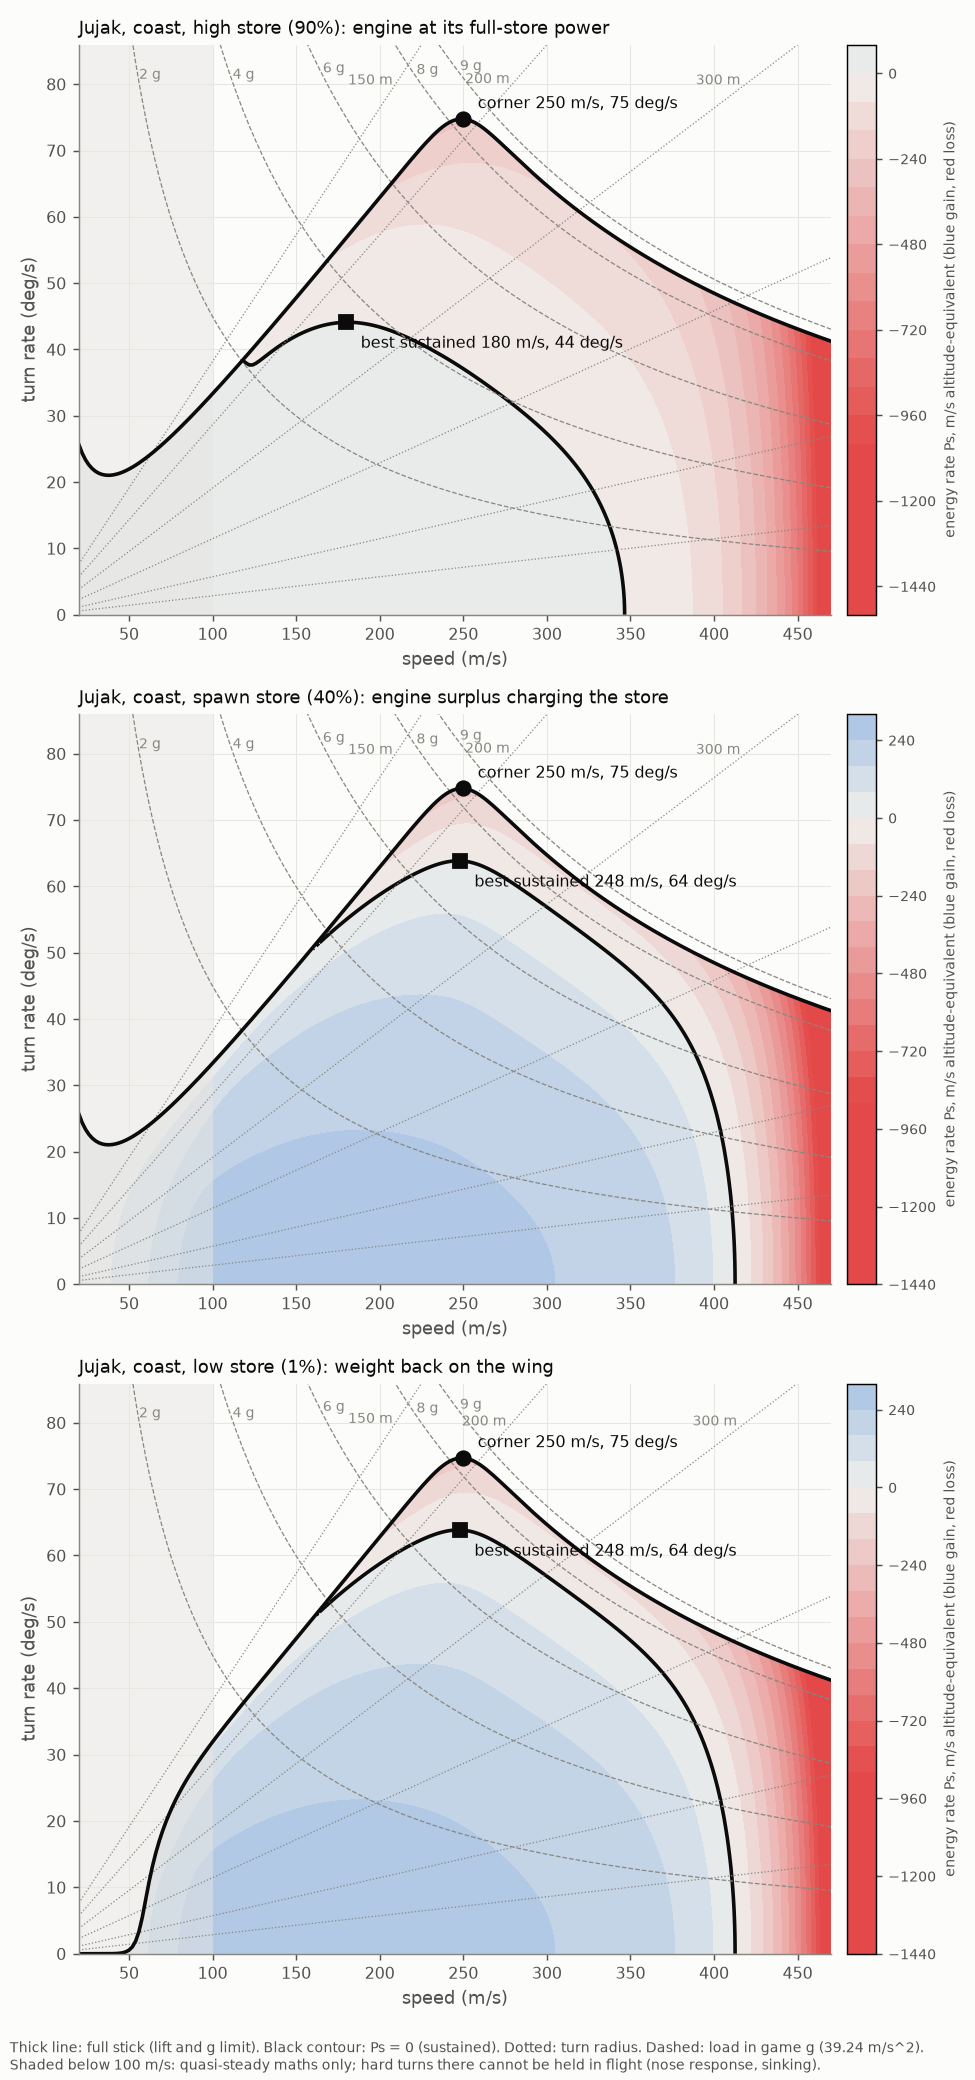
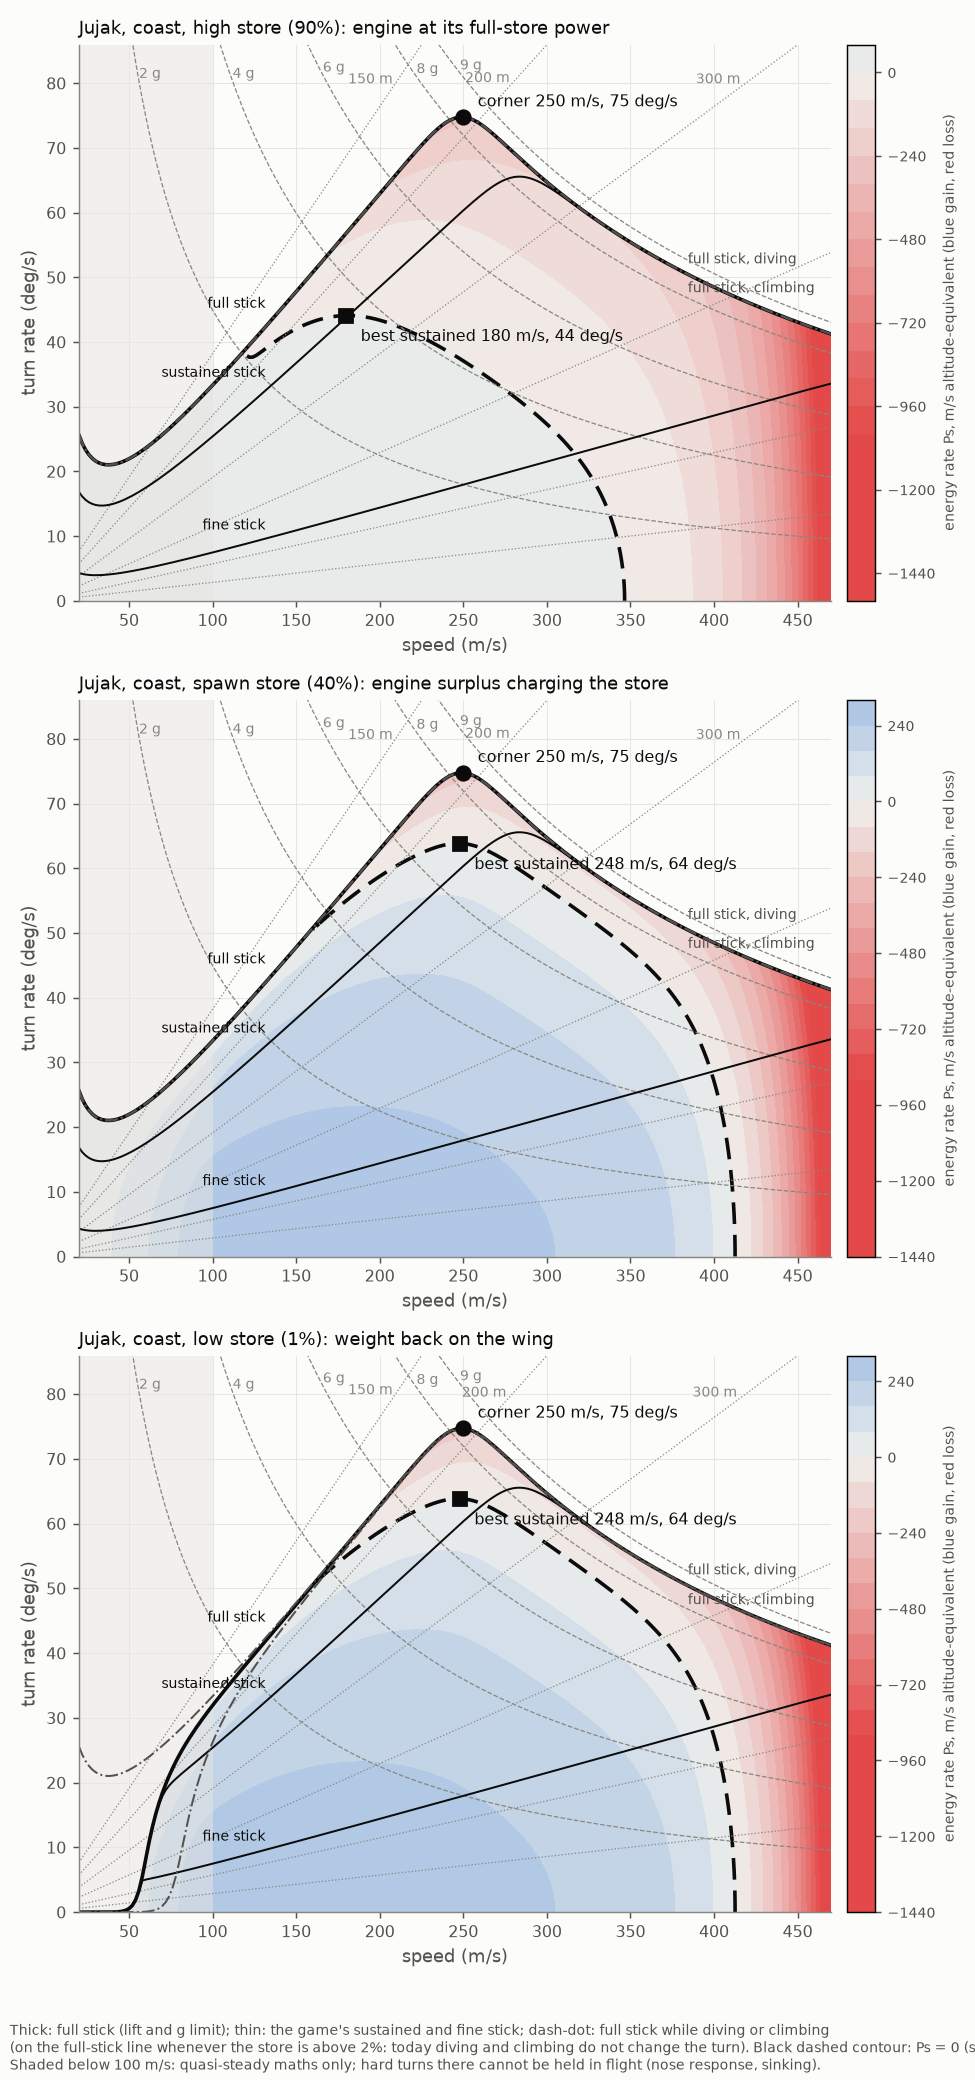
Doghouse: lines for every stick level and for diving and climbing; dashed sustained contour

diff --git a/docs/rewrite/sections/turns/doghouse.py b/docs/rewrite/sections/turns/doghouse.py
@@ -120,7 +120,7 @@ def doghouse(ship_type: int):
         limit = np.nanpercentile(np.abs(ps_field), 98)
         norm = TwoSlopeNorm(vmin=-limit, vcenter=0.0, vmax=limit)
         filled = ax.contourf(v, rate_axis, ps_field, levels=21, cmap=DIVERGING, norm=norm)
-        ax.contour(v, rate_axis, ps_field, levels=[0.0], colors=INK, linewidths=2.0)
+        ax.contour(v, rate_axis, ps_field, levels=[0.0], colors=INK, linewidths=2.0, linestyles=[(0, (6, 3))])
         # Radius and load lines: geometry only.
         for radius in (150, 200, 300, 500, 1000, 2000):
             line = v / radius * DEGREES
@@ -135,6 +135,23 @@ def doghouse(ship_type: int):
             if 0 < j < len(v) - 1:
                 ax.text(v[j], line[j], f"{load} g", color=MUTED, fontsize=8, ha="left", va="bottom")
         ax.plot(v, envelope, color=INK, linewidth=2.0)
+        label_at = int(np.searchsorted(v, 135.0))
+        ax.annotate("full stick", (v[label_at], envelope[label_at]), xytext=(-4, 6), textcoords="offset points",
+                    color=INK, fontsize=8, ha="right")
+        # The game's other stick levels (the card's fine and sustained values for this type).
+        for name, key in (("sustained stick", "sustained_stick"), ("fine stick", "fine_stick")):
+            row = int(round(card.CARD[key][ship_type] * (len(sticks) - 1)))
+            level = grid["rate"][row]
+            ax.plot(v, level, color=INK, linewidth=1.1)
+            ax.annotate(name, (v[label_at], level[label_at]), xytext=(-4, 4), textcoords="offset points",
+                        color=INK, fontsize=8, ha="right")
+        # Full stick while diving and while climbing (power 1 and 2), same store.
+        for power, name, offset in ((1, "full stick, diving", (4, 4)), (2, "full stick, climbing", (4, -12))):
+            moved = evaluate(ship_type, fraction, power)["rate"][-1]
+            ax.plot(v, moved, color=INK_2, linewidth=1.1, linestyle="-.")
+            here = int(np.searchsorted(v, 380.0))
+            ax.annotate(name, (v[here], moved[here]), xytext=offset, textcoords="offset points",
+                        color=INK_2, fontsize=8)
         corner = int(np.nanargmax(envelope))
         ax.plot(v[corner], envelope[corner], "o", color=INK, markersize=8)
         ax.annotate(f"corner {v[corner]:.0f} m/s, {envelope[corner]:.0f} deg/s",
@@ -155,11 +172,12 @@ def doghouse(ship_type: int):
         bar = figure.colorbar(filled, ax=ax, fraction=0.04, pad=0.02)
         bar.set_label("energy rate Ps, m/s altitude-equivalent (blue gain, red loss)", color=INK_2, fontsize=8)
         bar.ax.tick_params(labelsize=8, colors=INK_2)
-    figure.text(0.01, 0.005, "Thick line: full stick (lift and g limit). Black contour: Ps = 0 (sustained). "
-                "Dotted: turn radius. Dashed: load in game g (39.24 m/s^2).\n"
+    figure.text(0.01, 0.005, "Thick: full stick (lift and g limit); thin: the game's sustained and fine stick; "
+                "dash-dot: full stick while diving or climbing\n(on the full-stick line whenever the store is above 2%: today diving and climbing do not change the turn). Black dashed contour: Ps = 0 (sustained). "
+                "Grey dotted: turn radius. Grey dashed: load in game g (39.24 m/s^2).\n"
                 "Shaded below 100 m/s: quasi-steady maths only; hard turns there cannot be held in flight "
                 "(nose response, sinking).", color=INK_2, fontsize=8)
-    figure.tight_layout(rect=(0, 0.025, 1, 1))
+    figure.tight_layout(rect=(0, 0.045, 1, 1))
     path = os.path.join(OUT, f"doghouse-{NAMES[ship_type].lower()}.png")
     figure.savefig(path, dpi=130, facecolor=SURFACE)
     plt.close(figure)
